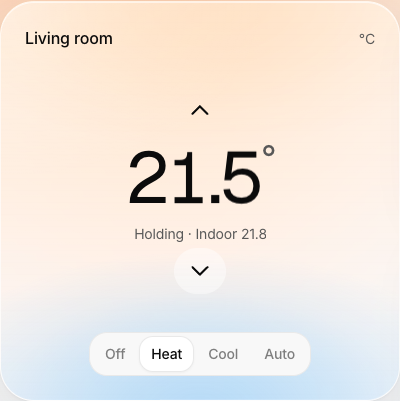
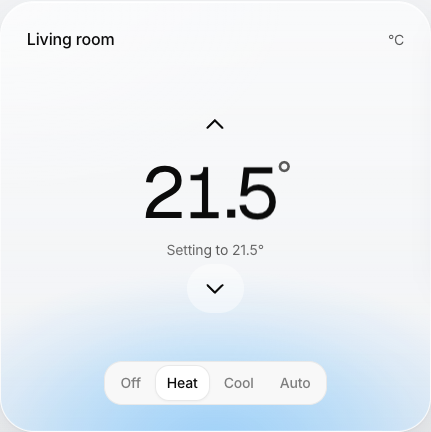
Document the grid, the assistant, and how Hearth reaches Matter devices
Refreshes the screenshots for the new look and explains the two paths to a
Matter device: through Home Assistant's REST API, or straight to the Matter
Server it runs, which shares Home Assistant's fabric.

diff --git a/README.md b/README.md
@@ -1,6 +1,6 @@
 # Hearth
 
-A calm, self-hosted home dashboard. Hearth brings your thermostat, cameras, lights, fans, and Matter devices into one place, and talks to the Home Assistant you already run.
+A calm, self-hosted home dashboard. Hearth brings your thermostat, cameras, lights, fans, and Matter devices into one grid you arrange yourself, talks to the Home Assistant you already run, and lets you change things by asking in plain words.
 
 ![Landing page](docs/screenshots/landing.png)
 
@@ -8,7 +8,11 @@ A calm, self-hosted home dashboard. Hearth brings your thermostat, cameras, ligh
 | --- | --- |
 | ![Dashboard](docs/screenshots/dashboard.png) | ![Dashboard in dark mode](docs/screenshots/dashboard-dark.png) |
 
-The thermostat glows warm from the top when you raise it and cool from the bottom when you lower it, and holds a softer glow while the system is actually heating or cooling.
+| Customize a tile | Ask the assistant |
+| --- | --- |
+| ![Customize dialog](docs/screenshots/customize.png) | ![Assistant panel](docs/screenshots/assistant.png) |
+
+The thermostat glows warm from the top when you raise it and cool from the bottom when you lower it, and keeps a softer glow while the system is actually heating or cooling.
 
 | Raise | Lower |
 | --- | --- |
@@ -16,12 +20,16 @@ The thermostat glows warm from the top when you raise it and cool from the botto
 
 ## What it does
 
-- **Accounts**: email and password sign up and sign in ([Better Auth](https://better-auth.com)). Each person has their own connections, cameras, and layout.
-- **Home Assistant**: lights (with brightness), switches, input booleans, fans (with speed), and climate entities over the REST API with a long-lived access token.
-- **Matter**: connects straight to a Matter server (the one Home Assistant's Matter add-on runs, or a standalone one), lists and controls devices, and pairs new ones from a setup code.
-- **Cameras**: RTSP cameras with a username and password, streamed to the browser over WebRTC through [go2rtc](https://github.com/AlexxIT/go2rtc). Falls back to refreshing snapshots when WebRTC cannot connect.
-- **Demo home**: simulated devices so anyone can explore without hardware.
-- **Security**: integration tokens and camera passwords are encrypted at rest (AES-256-GCM). The browser never sees them.
+- **A grid you arrange.** Every tile sits on square cells and comes in sizes from 1×1 to 4×3. Lights and fans have four templates: **Icon** (tap to switch), **Card** (name, room, status), **Slider** (a tall vertical brightness or speed control), and **Large** (details beside a slider). Choose **Edit** to drag tiles, resize them, pick an icon and a colour, or hide them. Filter by room.
+- **Home Assistant**: lights with brightness, switches, input booleans, fans with speed, and climate entities, with rooms taken from your Home Assistant areas.
+- **Matter**: connects straight to a Matter server, lists and controls devices, and pairs new ones from a setup code.
+- **Cameras**: RTSP cameras with a username and password, streamed to the browser over WebRTC through [go2rtc](https://github.com/AlexxIT/go2rtc), with a snapshot fallback.
+- **Assistant**: a pill in the corner (or Cmd or Ctrl K) opens a chat. Type or say "turn on the fan in my bedroom". Bring your own key for Claude, ChatGPT, Grok, Gemini, or Muse, or point it at a model you run yourself.
+- **Accounts**: email and password sign up and sign in. Each person has their own connections, cameras, layout, and assistants.
+- **Look**: liquid glass surfaces over a quiet studio backdrop (Studio, Linen, or Slate), light and dark, and eight accents.
+- **Security**: integration tokens, camera passwords, and AI keys are encrypted at rest (AES-256-GCM) and never sent to the browser.
+
+![Welcome](docs/screenshots/welcome.png)
 
 ## Quick start
 
@@ -45,30 +53,63 @@ docker compose up -d --build
 
 This starts Hearth on port 3000 and go2rtc next to it. If you open Hearth from other devices by IP (for example `http://192.168.1.10:3000`), set that as `BETTER_AUTH_URL` or add it to `TRUSTED_ORIGINS`. Once everyone in your household has an account, set `DISABLE_SIGNUP=true`.
 
+## How Hearth works with Home Assistant and Matter
+
+Matter is a local standard: devices talk over your own network (Wi-Fi, Ethernet, or Thread), and the apps that control them are **controllers**. A controller pairs a device onto its **fabric**, a private set of credentials that lets it send commands. One device can belong to several fabrics at once (Apple Home, Google Home, and Home Assistant together), which Matter calls **multi-admin**.
+
+Home Assistant does not speak Matter inside its own process. Its Matter integration talks to the **Matter Server** (the Matter Server add-on, built on matter.js since add-on 9.x) over a WebSocket on port 5580. The Matter Server is the real controller: it holds the fabric credentials and talks to devices. Home Assistant turns each Matter endpoint into an entity such as `light.desk_lamp`, `fan.bedroom`, or `climate.hallway`. Thread devices also need a Thread border router (a HomePod, a Nest hub, or the Home Assistant Connect ZBT-1 with the OpenThread Border Router add-on).
+
+Hearth can reach those devices along two paths. Pick one per device.
+
+```
+1. Through Home Assistant (recommended if you run it)
+   Hearth ──REST + token──▶ Home Assistant ──▶ Matter integration ──WebSocket──▶ Matter Server ──▶ device
+
+2. Straight to the Matter Server
+   Hearth ──WebSocket :5580──────────────────────────────────────────────────▶ Matter Server ──▶ device
+```
+
+**Path 1, through Home Assistant.** Hearth reads `/api/states` and calls services such as `light.turn_on` with a long-lived access token. It never speaks Matter itself; it sees Home Assistant entities. You get every device Home Assistant knows about, Matter or not (Zigbee, Z-Wave, Wi-Fi), with Home Assistant's names and areas.
+
+**Path 2, straight to the Matter Server.** Hearth opens one WebSocket to the server, sends `start_listening`, and keeps the node list current from the events it pushes. It reads Matter clusters directly (OnOff, LevelControl, FanControl, Thermostat) and sends commands such as `MoveToLevelWithOnOff`. If you point it at the server Home Assistant's add-on runs, Hearth is using **the same controller and fabric** as Home Assistant: a device you pair from Hearth also shows up in Home Assistant, and the reverse. Matter has no notion of Home Assistant's areas, so these devices have no room. Without Home Assistant, run `ghcr.io/matter-js/matterjs-server:stable` in Docker and connect to it the same way.
+
+If you connect both Home Assistant and its Matter Server, each Matter device appears twice. Hide one copy in **Edit**, or connect only one of them.
+
+**Pairing.** **Pair device** sends the setup code to the Matter Server (`commission_with_code`). To add a device that already lives in Apple Home, Google Home, or Alexa, turn on pairing mode (sharing) in that app and use the code it shows; only the network is needed. A brand new, never paired device needs the Matter Server to have Bluetooth for the first handshake.
+
 ## Connecting your home
 
 ### Home Assistant
 
 1. In Home Assistant, open your profile, then **Security**, then **Create token** under long-lived access tokens.
-2. In Hearth, open **Connections**, choose **Add**, then **Home Assistant**, and paste the address (`http://homeassistant.local:8123`) and the token.
+2. In Hearth, open **Settings**, choose **Add** under Connections, then **Home Assistant**, and paste the address (`http://homeassistant.local:8123`) and the token.
 
 Hearth checks the connection before saving it.
 
 ### Matter
 
-Hearth talks to a Matter server over WebSocket on port 5580.
-
 - **Home Assistant OS**: install the **Matter Server** add-on, open its configuration, and expose port 5580. Use `ws://<home-assistant-ip>:5580/ws` as the address.
 - **Standalone**: run `ghcr.io/matter-js/matterjs-server:stable` with host networking.
 
-To control a device that is already in Apple Home, Google Home, or Alexa, open it in that app, turn on **pairing mode** (also called sharing or multi-admin), then use **Pair device** in Hearth with the code it shows. Brand new devices need a Matter server with Bluetooth access.
-
 ### Cameras
 
-1. Make sure go2rtc is running (the compose file starts it) and set its address under **Connections**, then **Stream relay**.
+1. Make sure go2rtc is running (the compose file starts it) and set its address under **Settings**, then **Stream relay**.
 2. Add a camera with its RTSP address (for example `rtsp://192.168.1.20:554/stream1`), username, and password.
 
-The first two cameras appear on the dashboard.
+### AI assistants
+
+Open **Settings**, then **AI assistants**, and add a provider with your own API key. Hearth checks the key with the provider before saving it. Usage is billed to your account with that provider.
+
+| Provider | Default model | Key from |
+| --- | --- | --- |
+| Claude (Anthropic) | `claude-opus-5-5` | console.anthropic.com |
+| ChatGPT (OpenAI) | `gpt-6.1-sol` | platform.openai.com |
+| Grok (xAI) | `grok-4.3` | console.x.ai |
+| Gemini (Google) | `gemini-3.8-flash` | aistudio.google.com |
+| Muse (Meta) | `muse-spark-1.3` | dev.meta.ai |
+| Custom | any | Ollama, LM Studio, vLLM, OpenRouter, or anything that speaks Chat Completions with tools |
+
+You can change the model on each connection. For Claude, Hearth turns on Anthropic's server-side refusal fallback (`fallbacks: "default"`), so a declined request is retried on the model Anthropic recommends.
 
 ## How it works
 
@@ -85,10 +126,13 @@ The best way to learn this codebase is to follow one request end to end. Here is
 | Home Assistant (REST) | `src/lib/integrations/home-assistant.ts` |
 | Matter (WebSocket) | `src/lib/integrations/matter/` |
 | Demo home | `src/lib/integrations/demo.ts` |
+| Dashboard layout (sizes, order, icons, colours) | `src/lib/dashboard/layout.ts`, rendered by `src/components/dashboard/home-grid.tsx` |
+| Tiles and the vertical slider | `src/components/dashboard/tiles` |
+| Assistant (prompt, tool, provider adapters) | `src/lib/assistant`, UI in `src/components/assistant` |
 | Server actions (forms) | `src/lib/actions.ts` |
-| API routes (polling and commands) | `src/app/api` |
+| API routes (polling, commands, assistant) | `src/app/api` |
 | Camera signalling | `src/app/api/cameras/[id]/webrtc/route.ts` and `src/components/dashboard/camera-tile.tsx` |
-| Liquid glass surfaces | `src/components/glass` |
+| Liquid glass surfaces and wallpapers | `src/components/glass` |
 
 ### One provider interface, three integrations
 
@@ -102,15 +146,21 @@ interface Provider {
 }
 ```
 
-The dashboard only knows about `Device` and `DeviceCommand`. Adding a new integration (Philips Hue, a Zigbee bridge, Shelly) means writing one more class that maps its API onto those types.
+The dashboard and the assistant only know about `Device` and `DeviceCommand`. Adding an integration (Philips Hue, a Zigbee bridge, Shelly) means one more class that maps its API onto those types.
 
-### Home Assistant: request and response
+### The layout is data
 
-`GET /api/states` returns every entity. Hearth keeps the ones it understands and turns, for example, `light.kitchen` with `brightness: 128` into `{ kind: "light", brightness: 50 }`. Turning it on is `POST /api/services/light/turn_on` with `{ "entity_id": "light.kitchen" }`.
+A layout is an ordered list of `{ id, size, icon, color, hidden }`. `resolveLayout` reconciles it with whatever devices exist right now: saved tiles keep their place, missing ones drop out, and new ones are added with sensible defaults. The grid is CSS: row height equals column width (container query units), so every size lines up, and dense packing fills gaps.
 
-### Matter: a long-lived WebSocket
+### How the assistant decides what to do
 
-The Matter server pushes changes instead of being polled. Hearth opens one connection per server, sends `start_listening` to receive every node, then applies `attribute_updated` events as they arrive, so reading devices never waits on the network. Attributes are addressed `endpoint/cluster/attribute`: `1/6/0` is the OnOff attribute of endpoint 1, and `1/513/18` is a thermostat's heating setpoint in hundredths of a degree.
+Each request sends the model a short system prompt that lists every device (id, name, room, kind, and state) and one tool, `control_device`. The model calls the tool once per device. Hearth validates each call, runs it through the same path as a tile press, tells the model what happened, and shows the changes under the reply. The three API styles live in `src/lib/assistant/run.ts`:
+
+- **Claude** through the official Anthropic SDK.
+- **ChatGPT and Grok** through the Responses API, which OpenAI's current models need for tool calling.
+- **Gemini, Muse, and custom servers** through Chat Completions. Assistant messages are sent back unchanged, because Gemini rejects a tool turn that lost its thought signature.
+
+Voice input uses the browser's Web Speech API, and a spoken request gets a spoken reply.
 
 ### Cameras: why go2rtc
 
@@ -124,6 +174,7 @@ The dashboard polls `/api/home` every four seconds with [SWR](https://swr.vercel
 
 - [Arc](https://uiarc.dev) components, installed with the shadcn CLI into `src/components/arc` (`components.json` registers the `@uiarc` registry). Install more with `npx shadcn@latest add @uiarc/<name>`.
 - [React Bits](https://reactbits.dev) Glass Surface for the refractive navigation bar, in `src/components/reactbits`.
+- [dnd-kit](https://dndkit.com) for dragging tiles, with keyboard support.
 - [Motion](https://motion.dev) for animation, with a reduced motion branch everywhere.
 
 ## Scripts
@@ -132,7 +183,7 @@ The dashboard polls `/api/home` every four seconds with [SWR](https://swr.vercel
 | --- | --- |
 | `npm run dev` | Development server with hot reload |
 | `npm run build` and `npm start` | Production build and server |
-| `npm test` | Unit tests (Vitest) for the integration mappings, encryption, and wire formats |
+| `npm test` | Unit tests (Vitest): integration mappings, layout, assistant adapters, encryption, wire formats |
 | `npm run lint` and `npm run typecheck` | ESLint and TypeScript |
 | `npm run db:generate` | New migration after editing `src/lib/db/schema.ts` |
 
@@ -141,8 +192,8 @@ The dashboard polls `/api/home` every four seconds with [SWR](https://swr.vercel
 Good exercises if you are learning with this project:
 
 1. **Live updates without polling**: subscribe to Home Assistant's WebSocket API (`/api/websocket`) on the server and stream changes to the browser with Server-Sent Events.
-2. **Rooms**: read Home Assistant areas and group tiles by room.
-3. **Scenes**: a button that sends several commands at once.
-4. **Colour lights**: extend `LightDevice` with colour temperature and map it for Home Assistant and Matter (cluster 768).
+2. **Scenes**: a tile that sends several commands at once, and an assistant tool to create them.
+3. **Colour lights**: extend `LightDevice` with colour temperature and map it for Home Assistant and Matter (cluster 768).
+4. **Several dashboards**: one layout per room or per wall tablet.
 5. **Household sharing**: let several accounts share one set of connections.
 6. **A new integration**: Philips Hue's local API is a good first one.

diff --git a/AGENTS.md b/AGENTS.md
@@ -22,6 +22,8 @@ A self-hosted home dashboard: Next.js 16 App Router, Better Auth, Drizzle on SQL
 - **Arc components live in `src/components/arc`** and are installed with `npx shadcn@latest add @uiarc/<name>`. Do not edit them; compose them. `components.json` must keep `"style": "new-york"`: Base UI styles make the shadcn CLI rewrite Arc's Radix `asChild` into `render` and break it.
 - **React Bits code in `src/components/reactbits` is vendored** and excluded from lint.
 - **Glass**: use `Glass` / `glassClass` (`src/components/glass`) for surfaces, and `glassSheetClass` for layers that position themselves (dialogs, drawers).
+- **Dashboard layout is data** (`src/lib/dashboard/layout.ts`). New tile kinds need an entry in `SIZE_OPTIONS`, and a size must keep cells square: the grid derives row height from column width.
+- **Assistant providers** live in `src/lib/assistant`. Claude goes through `@anthropic-ai/sdk`; the others use plain fetch. OpenAI and xAI use the Responses API (OpenAI's current models only call tools there); Gemini, Muse, and custom servers use Chat Completions and must echo assistant messages verbatim. Never send Muse a `tool_choice`. Every tool call goes through `runCommand`, so the assistant can only touch the signed-in person's devices.
 - Arc's design rules apply: semantic tokens, weights 400 and 500, sentence case, no em dashes, a reduced motion branch for every animation, and a server-safe first render. Full rules: https://uiarc.dev/r/skills/arc/INSTRUCTIONS.md
 
 ## Checks
